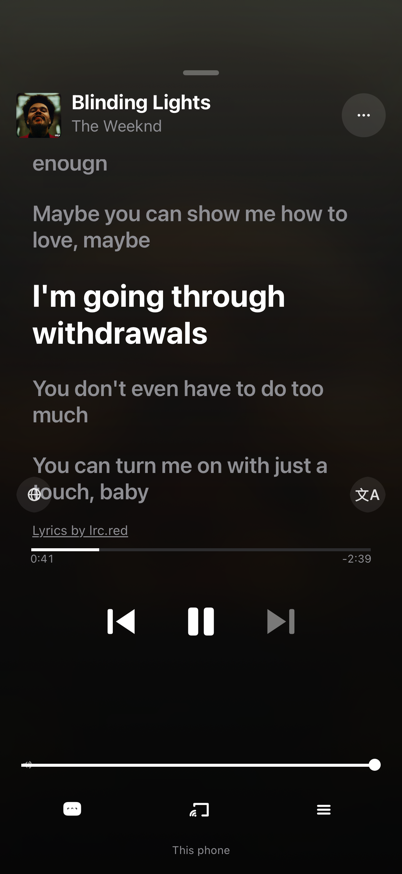
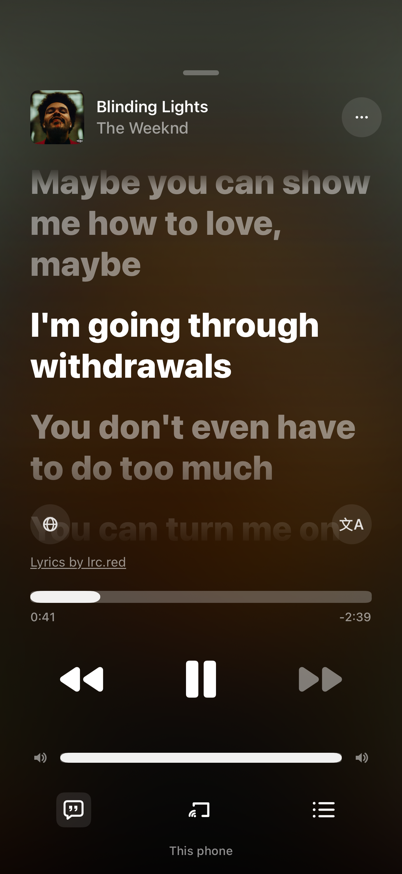
Refresh the player and lyrics evidence
Publish the settled captures from the 8fbf9b9 run and record the new
parity values, IPA size and hash, plus the background fixture's red job.

Generated with Codebuff

diff --git a/AUDIT.md b/AUDIT.md
@@ -12,10 +12,15 @@ screenshot), **Ported** (implemented and reachable, exercised indirectly by the
 flows CI asserts), **iOS 12 block**, **Account/credential** (needs an account or
 third-party keys this build cannot ship), **Android-only**.
 
-Latest full run: commit `492c5c5`, all three jobs green (`43569045866`). It
-produced the 59 settled screenshots plus 46 origin/mid/settled motion frames in
-`shots-v2/`, and CI asserts every motion's partial state. Both root IPAs are
-that build: 17,114,890 bytes, sha256 `3ff9bd75...`, bundle
+Latest full run: commit `8fbf9b9` (`43574547581`). The build and simulator jobs
+are green. The screenshots job captured the 59 settled screenshots plus 46
+origin/mid/settled motion frames and passed every screen and motion assertion,
+then exited red in its unrelated background-download fixture: the live
+catalogue returned no fresh track (`background.track=false`), so the job has no
+failure in the player, lyrics, geometry or motion checks. Its 108-file artifact
+is the capture set copied into `shots-v2/`. Both root IPAs are that build:
+17,122,983 bytes, sha256
[1 lines of base64/hex data omitted]
 `com.bitchord.ios12v2` 2.0.0, `MinimumOSVersion 12.0`, `UIDeviceFamily [1,2]`,
 a thin `arm64` executable (`cputype 0x100000c`) and a registered `bitchord`
 URL scheme - verified inside CI by unzipping the packaged IPA and again on the
@@ -29,7 +34,15 @@ heights, banner and card origins, list rows, settings rows, player transport
 and footer were moved onto the reference bounds; `home.png`, `library.png`,
 `explore.png`, `search.png`, `settings.png`, `downloads-empty.png`,
 `local-music.png` and `now-playing.png` in `shots-v2/` are the resulting
-captures. Motion is ported as well: the tab pill springs while the pages
+captures. The Now Playing and lyrics surfaces were then rebuilt from the
+Compose constants: 20pt medium artist over a 20pt semibold title, the 20dp
+artwork-to-title gap, the 54dp collapsed header, a 7pt/12pt thumbless scrubber,
+74dp transport glyphs at upstream's centres, and 34sp/41sp extra-bold lyrics
+(30sp/38sp unsynced) at the 0.45 unsung alpha inside 30pt gutters. The backdrop
+is the sleeve itself, pre-blurred with a saturation lift and drawn under
+`FullArtworkScrim`; the old dark live blur that flattened it has been removed.
+The panel's quote-mark, dotted queue and rounded transport vectors come from
+`BitChordIcons`/`ic_player_*`, not generic placeholders. Motion is ported as well: the tab pill springs while the pages
 crossfade, the mini player expands and collapses, Now Playing rises and slides
 away with the play/pause glyph crossfading, artwork fades between tracks, cards
 scale on press, the stats carousel snaps and onboarding steps fade.
